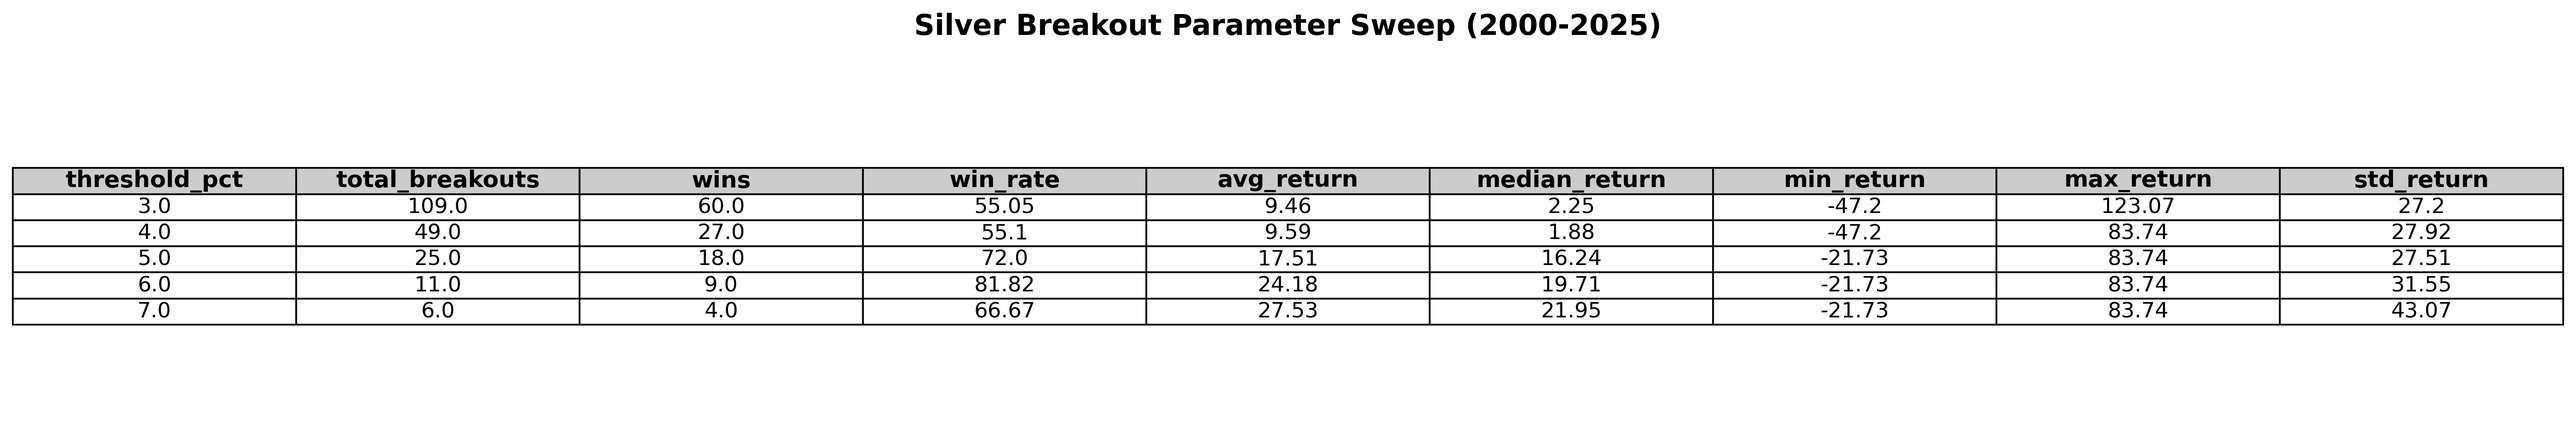
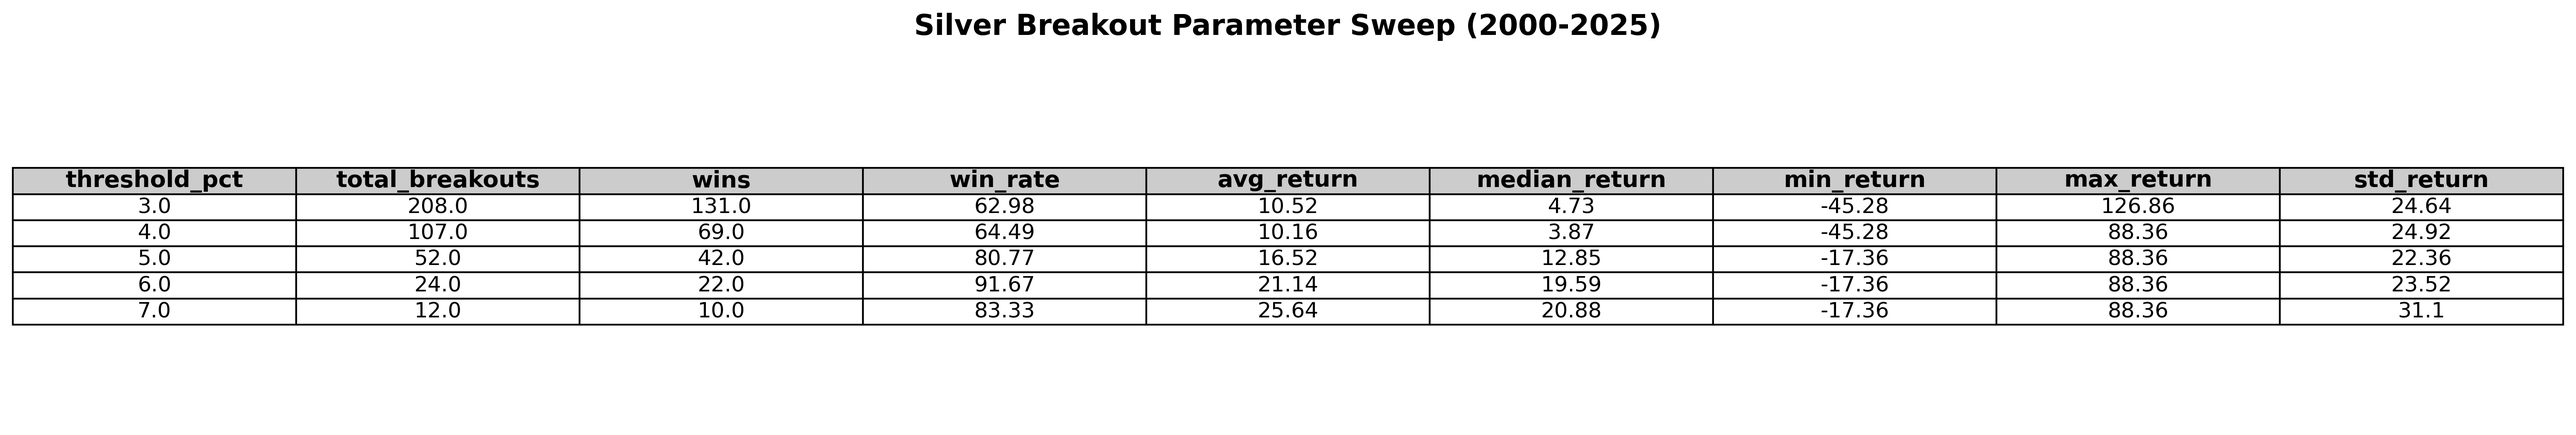
Fix breakout level logic: use low of breakout day instead of close
- Changed breakout level from closing price to low of breakout day
- Updated hold period logic to check 'at least 2 days' instead of exactly 2 days
- Improved win rates: 5% threshold now 80.8% (vs 72%), 6% threshold 91.7% (vs 81.8%)
- More valid breakouts: 52 vs 25 for 5% threshold, 24 vs 11 for 6% threshold
- Updated documentation and chart titles to reflect correct logic
- Better risk management with tighter stop losses

diff --git a/silver_breakout_analysis.py b/silver_breakout_analysis.py
@@ -79,7 +79,7 @@ class SilverBreakoutAnalyzer:
         
         for idx, row in breakout_candidates.iterrows():
             breakout_date = idx
-            breakout_price = row['Close']
+            breakout_price = row['Low']  # Use the low of the breakout day
             breakout_return = row['Daily_Return']
             
             # Check if we have enough future data
@@ -87,17 +87,29 @@ class SilverBreakoutAnalyzer:
             if future_idx >= len(self.data):
                 continue
             
-            # Check if price holds above breakout for hold_days
+            # Check if price holds above breakout for at least hold_days
             holds_above = True
-            for i in range(1, hold_days + 1):
+            consecutive_days_above = 0
+            
+            # Check each day after the breakout
+            for i in range(1, len(self.data) - self.data.index.get_loc(breakout_date)):
                 check_idx = self.data.index.get_loc(breakout_date) + i
                 if check_idx >= len(self.data):
-                    holds_above = False
                     break
                 
-                if self.data.iloc[check_idx]['Close'] < breakout_price:
-                    holds_above = False
-                    break
+                if self.data.iloc[check_idx]['Close'] >= breakout_price:
+                    consecutive_days_above += 1
+                else:
+                    # Price dropped below breakout level, check if we already met the minimum
+                    if consecutive_days_above >= hold_days:
+                        break
+                    else:
+                        holds_above = False
+                        break
+            
+            # Check if we met the minimum hold requirement
+            if consecutive_days_above < hold_days:
+                holds_above = False
             
             if not holds_above:
                 continue
@@ -107,9 +119,11 @@ class SilverBreakoutAnalyzer:
             future_return = ((future_price - breakout_price) / breakout_price) * 100
             is_winner = future_price > breakout_price
             
-            # Get the 2-day hold period data for visualization
+            # Get the actual hold period data for visualization (up to 10 days max for display)
             hold_period_data = []
-            for i in range(hold_days + 1):
+            max_display_days = min(10, len(self.data) - self.data.index.get_loc(breakout_date))
+            
+            for i in range(max_display_days):
                 check_idx = self.data.index.get_loc(breakout_date) + i
                 if check_idx < len(self.data):
                     hold_period_data.append({
@@ -171,9 +185,12 @@ class SilverBreakoutAnalyzer:
         colors = ['green' if b else 'red' for b in self.breakouts['is_winner']]
         
         for i, (_, breakout) in enumerate(self.breakouts.iterrows()):
-            # Plot the breakout day
-            ax1.scatter(breakout['breakout_date'], breakout['breakout_price'], 
+            # Plot the breakout day (close price) and breakout level (low)
+            close_price = self.data.loc[breakout['breakout_date'], 'Close']
+            ax1.scatter(breakout['breakout_date'], close_price, 
                        color=colors[i], s=50, alpha=0.8, zorder=5)
+            ax1.scatter(breakout['breakout_date'], breakout['breakout_price'], 
+                       color=colors[i], s=30, alpha=0.6, zorder=5, marker='v')
             
             # Highlight the hold period
             hold_data = breakout['hold_period_data']
@@ -192,7 +209,7 @@ class SilverBreakoutAnalyzer:
             threshold_pct = 5.0  # fallback for legacy calls
         median_return = self.breakouts['future_return'].median()
         ax1.set_title(f'Silver Breakout Analysis ({self.symbol})\n'
-                     f'≥{threshold_pct:.0f}% Daily Increase → 2-Day Hold → 6-Month Result\n'
+                     f'≥{threshold_pct:.0f}% Daily Increase → Hold Above Low → 6-Month Result\n'
                      f'Win Rate: {(self.breakouts["is_winner"].sum() / len(self.breakouts) * 100):.1f}% '
                      f'({self.breakouts["is_winner"].sum()}/{len(self.breakouts)}) | '
                      f'Median Return: {median_return:.1f}%', 

diff --git a/README.md b/README.md
@@ -7,7 +7,7 @@ A comprehensive yfinance-based script that analyzes silver's historical breakout
 The script identifies and analyzes historical instances where:
 
 1. **Silver goes up ≥5% in one day** (breakout day)
-2. **Holds above that breakout price for the next 2 days** (confirmation period)
+2. **Holds above the low of the breakout day for at least 2 days** (confirmation period)
 3. **Is higher 6 months (~126 trading days) later** (success criteria)
 
 It then calculates the **win rate** - the percentage of times silver was higher 6 months after a valid breakout.
@@ -16,7 +16,7 @@ It then calculates the **win rate** - the percentage of times silver was higher 
 
 - 📊 **Historical Analysis**: Analyzes silver price data from 2000 to present
 - 🎯 **Breakout Identification**: Finds days with ≥5% daily increases
-- ✅ **Confirmation Check**: Verifies 2-day hold above breakout price
+- ✅ **Confirmation Check**: Verifies at least 2-day hold above breakout day's low
 - 📈 **Win Rate Calculation**: Determines success rate over 6 months
 - 📉 **Visualization**: Creates charts showing breakout periods and results
 - 📋 **Data Export**: Exports results to CSV for further analysis
